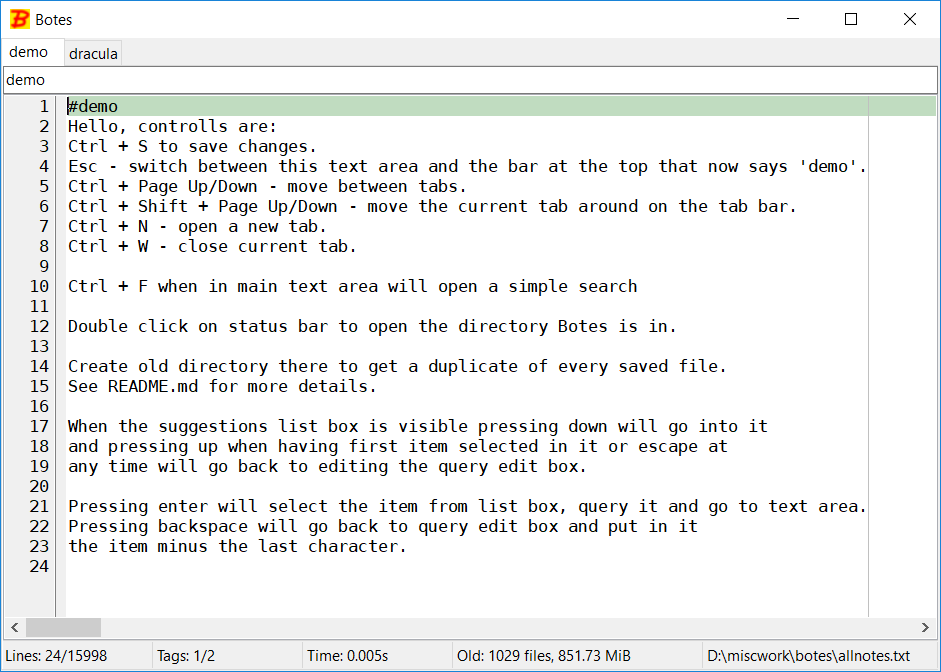
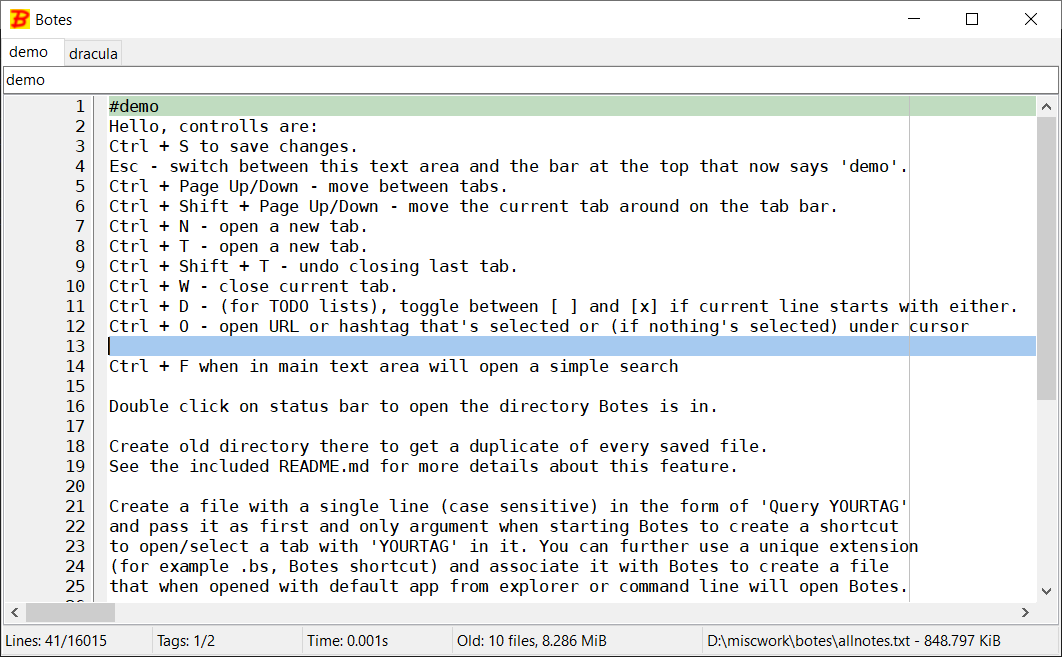
added ctrl plus o opening urls or hashtags

diff --git a/README.md b/README.md
@@ -57,6 +57,7 @@ the first instance properly (just how programs like VLC, Notepad++ and VS Code d
 * Ctrl + F - use find (beware - it's quite crude).
 * Ctrl + D - toggle between `[ ]` and `[x]` at the start of the line (for TODO lists).
 * Double click on status bar - open directory `Botes` is in.
+* Ctrl + O - open URL or hashtag that's selected or (if nothing's selected) under cursor
 
 
 # Font
